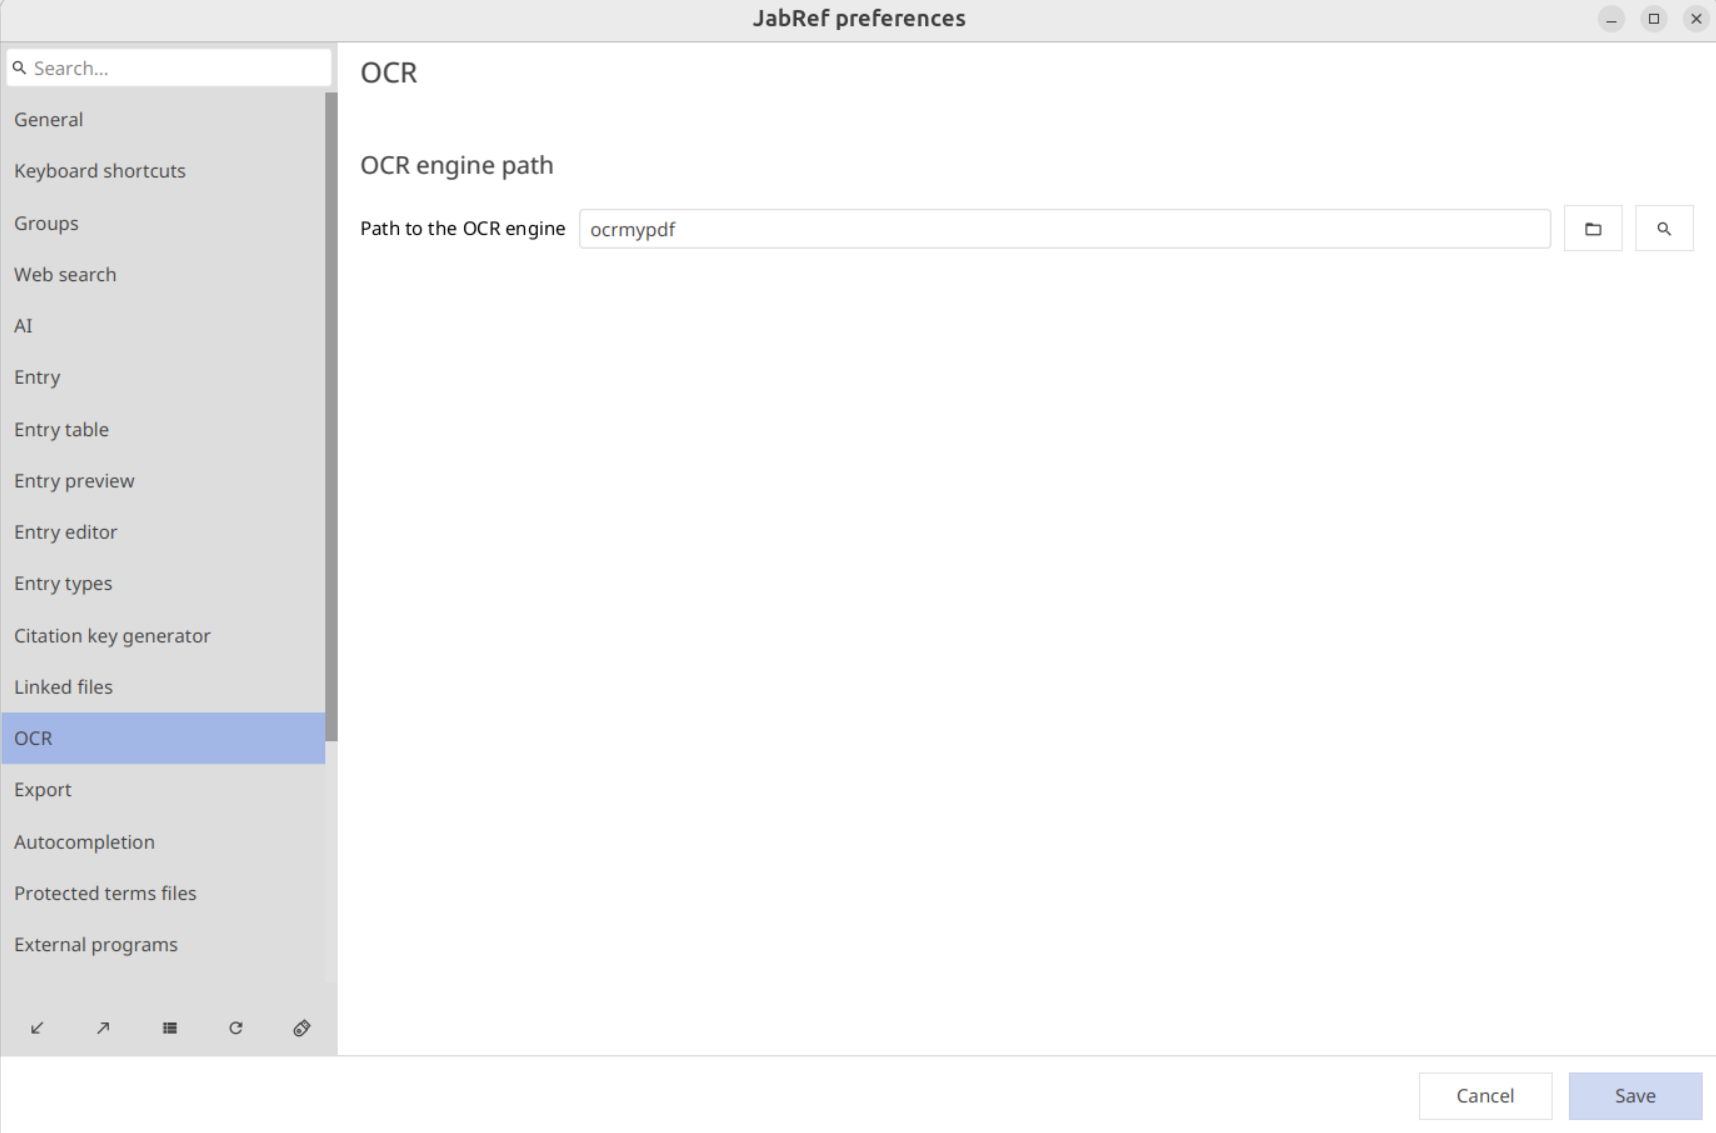
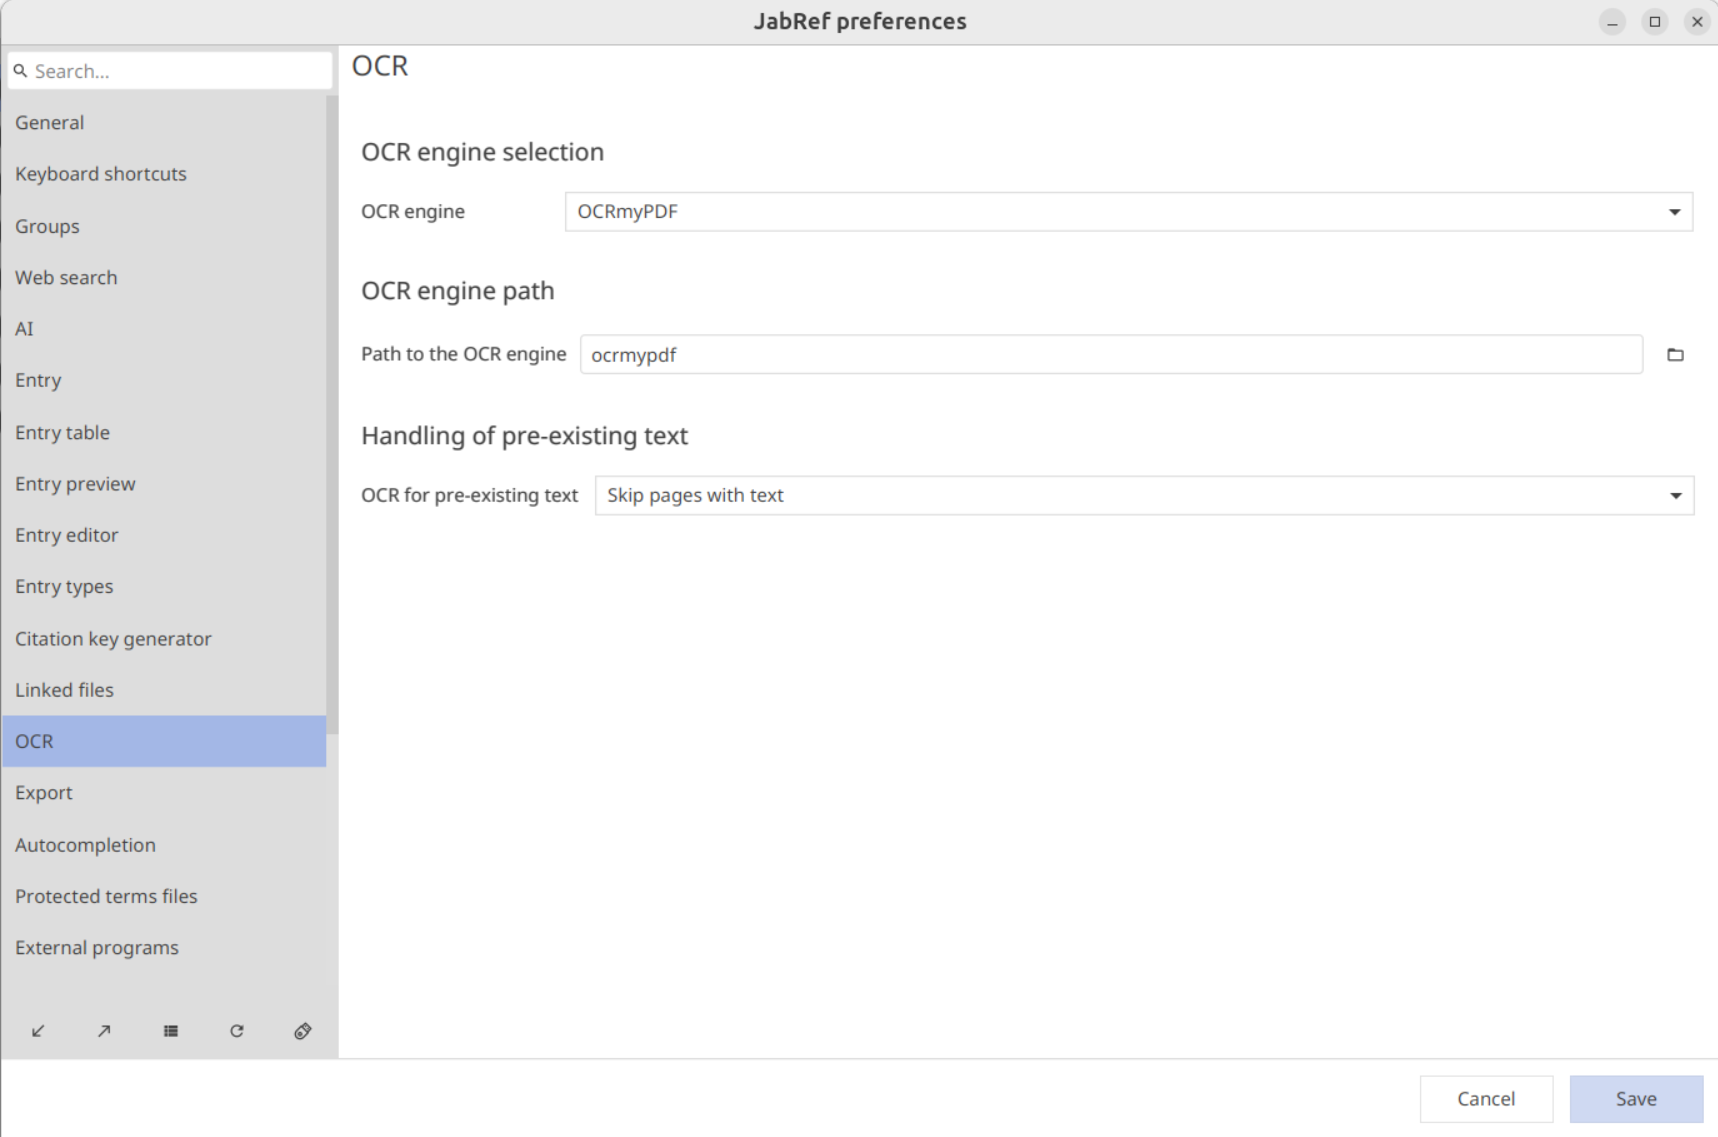
Refactor OCR documentation

diff --git a/en/advanced/OCR.md b/en/advanced/OCR.md
@@ -1,15 +1,23 @@
 # OCR
 
-[OCR](https://en.wikipedia.org/wiki/Optical_character_recognition) (Optical Character Recognition) is defined as the electronic or mechanic conversion of images of typed, handwritten or printed text into machine-encoded text. Consequently, with this technology it is possible to add editable and searchable data to PDFs and other files in your Jabref library. OCR can be used via multiple tools and engines. Currently, JabRef provides OCR using [OCRmyPDF](https://ocrmypdf.readthedocs.io/en/latest/).
+[OCR](https://en.wikipedia.org/wiki/Optical_character_recognition) (Optical Character Recognition) is defined as the electronic or mechanic conversion of images of typed, handwritten or printed text into machine-encoded text. Consequently, with this technology it is possible to add editable and searchable data to PDFs and other files in your Jabref library. OCR can be used via multiple tools and engines. Currently, JabRef supports two OCR engines: [OCRmyPDF](https://ocrmypdf.readthedocs.io/en/latest/) and [Docling](https://github.com/docling-project/docling).
 
-## How to install [OCRmyPDF](https://github.com/ocrmypdf/ocrmypdf)
+## How to install an OCR engine
 
-* Please check the [installation guide](https://ocrmypdf.readthedocs.io/en/latest/installation.html) and follow the instructions for your operating system.
+Install whichever engine you plan to use, no need to install both.
+
+### OCRmyPDF
+
+* Please check the [OCRmyPDF installation guide](https://ocrmypdf.readthedocs.io/en/latest/installation.html) and follow the instructions for your operating system.
+
+### Docling
+
+* Please check the [Docling installation guide](https://docling-project.github.io/docling/getting_started/installation/) and follow the instructions for your operating system.
 
 ## How to perform OCR on a scanned PDF file in JabRef
 
 {% hint style="warning" %}
-OCRmyPDF must be installed on your system to use this feature.
+The OCR engine selected in your preferences must be installed on your system to use this feature.
 {% endhint %}
 
 1. Open JabRef and select the entry with the PDFs you want to OCR.
@@ -32,18 +40,18 @@ OCRmyPDF must be installed on your system to use this feature.
 
     ![OCR preferences](../.gitbook/assets/ocr-preferences.png)
 
-### Handling of pre-existing text
+### OCR Engine Selection
 
-* Some PDFs may contain a mix of pages with and without embedded text.
-* In such cases, you will have three options:
+* JabRef lets you choose which OCR engine to use from the **OCR engine** dropdown at the top of the OCR preferences tab.
 
-1. **Skip pages with text**: Performs OCR only on the pages without already embedded text. This is the default behaviour, if not specified.
-2. **Redo text in pages containing OCRed text**: Uses OCR on pages containing text created by a prior OCR run.
-3. **Overwrite text in pages containing text**: Forces OCR with rasterization on all pages, potentially reducing quality or losing vector content, but this technique works, even when the `Redo text in pages containing text` option doesn't work.
+    ![OCR engine selection dropdown](../.gitbook/assets/ocr-engine-selection-dropdown.png)
 
-* This can be configured in Partially scanned PDFs section in the OCR preferences.
+* Available engines:
 
-    ![OCR options for partially scanned PDFs](../.gitbook/assets/ocr-options-for-partially-scanned-pdfs.png)
+1. **OCRmyPDF**: the default engine. Well suited for general-purpose OCR on scanned PDFs.
+2. **Docling**: an alternative engine with strong handling of complex layouts and documents containing tables or figures (slower than OCRmyPDF).
+
+* Changing the selected engine automatically re-runs **auto-detection** for that engine's path (see below), so if the newly selected engine is installed in a standard location, its path field will populate automatically.
 
 ### Engine Path
 
@@ -51,25 +59,45 @@ OCRmyPDF must be installed on your system to use this feature.
 Performing OCR will fail if wrong engine path is provided, make sure that the correct path is provided.
 {% endhint %}
 
-* JabRef needs to know the location of the OCRmyPDF executable to run OCR. By default, JabRef assumes `ocrmypdf` is available on your system PATH, which is the case for most standard installations.
-* If OCRmyPDF is installed in a non-standard location, or if it needs to be invoked through Python, you can configure the path manually in this preference tab.
-* There are three ways to set the engine path:
+* JabRef needs to know the location of the selected engine's executable to run OCR. By default, JabRef assumes the engine's standard command (`ocrmypdf` or `docling`) is available on your system PATH, which is the case for most standard installations.
+* If your chosen engine is installed in a non-standard location, or if OCRmyPDF needs to be invoked through Python, you can configure the path manually in this preference tab.
+* The path field always corresponds to the engine currently selected in the **OCR engine** dropdown above, switching engines switches which path you're viewing and editing.
+* There are two ways to set the engine path:
 
-1. **Type the path manually**: Enter the path directly into the text field. This can be a bare command name (e.g. `ocrmypdf` or `python -m ocrmypdf`) if it is available on your system PATH, or a full absolute path to the executable (e.g. `/home/user/.local/bin/ocrmypdf`).
+1. **Type the path manually**: Enter the path directly into the text field. This can be a bare command name (e.g. `ocrmypdf`, `docling`, or `python -m ocrmypdf`) if it is available on your system PATH, or a full absolute path to the executable (e.g. `/home/user/.local/bin/ocrmypdf`).
 
-    ![Text field for engine path](../.gitbook/assets/text-field-for-engine-path.png)
+   ![Text field for engine path](../.gitbook/assets/text-field-for-engine-path.png)
 
-2. **Browse**: Click the folder icon to open a file chooser and navigate to the OCRmyPDF executable on your system.
+2. **Browse**: Click the folder icon to open a file chooser and navigate to the engine's executable on your system.
 
-    ![Browse engine path button](../.gitbook/assets/browse-engine-path-button.png)
+   ![Browse engine path button](../.gitbook/assets/browse-engine-path-button.png)
 
-3. **Auto-detect**: Click the magnifier icon to have JabRef automatically search for a working OCRmyPDF installation. JabRef will try the following commands in order and use the first one that works:
+* JabRef also **auto-detects the path automatically** whenever you change the selected engine in the dropdown, you don't need to trigger this manually. When you switch engines, JabRef tries the following commands, in order, and fills in the path field with the first one that works:
 
-    ![Auto-detect engine path button](../.gitbook/assets/auto-detect-engine-path-button.png)
+  **For OCRmyPDF:**
+  1. `ocrmypdf`
+  2. `python -m ocrmypdf`
+  3. `py -m ocrmypdf`
+  4. `python3 -m ocrmypdf`
 
-    1. `ocrmypdf`
-    2. `python -m ocrmypdf`
-    3. `py -m ocrmypdf`
-    4. `python3 -m ocrmypdf`
+  **For Docling:**
+  1. `docling`
 
 If none of these succeed, the path field will remain unchanged and you will need to set the path manually.
+
+### Handling of pre-existing text
+
+* Some PDFs may contain a mix of pages with and without embedded text.
+* In such cases, you will have three options:
+
+1. **Skip pages with text**: Performs OCR only on the pages without already embedded text. This is the default behavior, if not specified.
+2. **Redo text in pages containing OCRed text**: Uses OCR on pages containing text created by a prior OCR run.
+3. **Overwrite text in pages containing text**: Forces OCR with rasterization on all pages, potentially reducing quality or losing vector content, but this technique works, even when the `Redo text in pages containing text` option doesn't work.
+
+* This can be configured in Handling of pre-existing text section in the OCR preferences.
+
+    ![OCR options for handling of pre-existing text](../.gitbook/assets/ocr-options-for-handling-of-pre-existing-text.png)
+
+{% hint style="info" %}
+This setting applies to whichever OCR engine is currently selected.
+{% endhint %}
